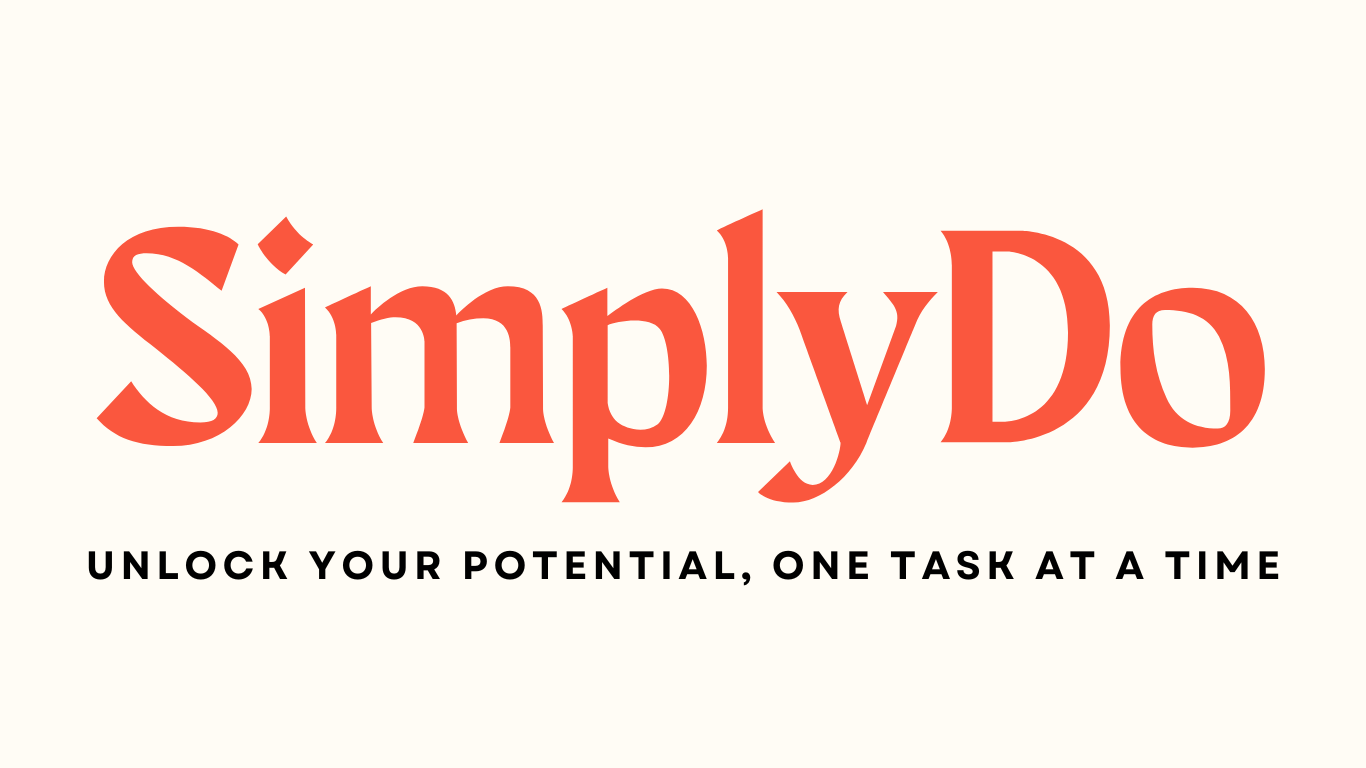
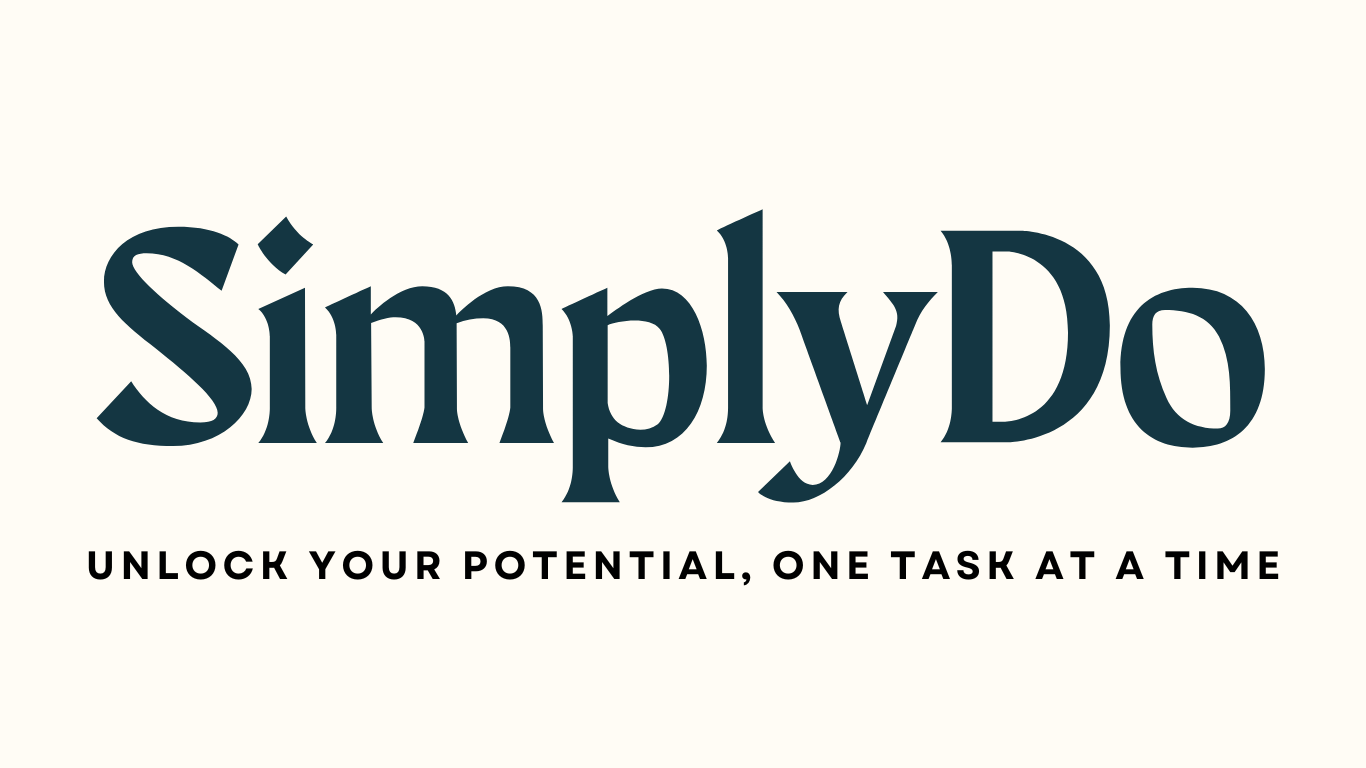
changed colors
changed logo colours, and button colour when you hover over it

Changed region(s): [[0.0615, 0.2812, 0.9531, 0.6562]]

diff --git a/styles.css b/styles.css
@@ -10,7 +10,7 @@
   }
 
 .logo {
-    height: 250px;
+    height: 230px;
     align-items: center;
 }
 
@@ -23,7 +23,7 @@ body {
     max-width: 85%;
     margin: 0 auto;
     padding: 20px;
-    background-color: #0F8B8D;
+    background-color: #FFFCF5;
     border-radius: 5px;
     justify-content: center;
     align-items: center;
@@ -65,7 +65,7 @@ button {
 }
 
 button:hover {
-    background-color: #EC9A29;
+    background-color: #FA573E;
 }
 
 input[type="text"] {
